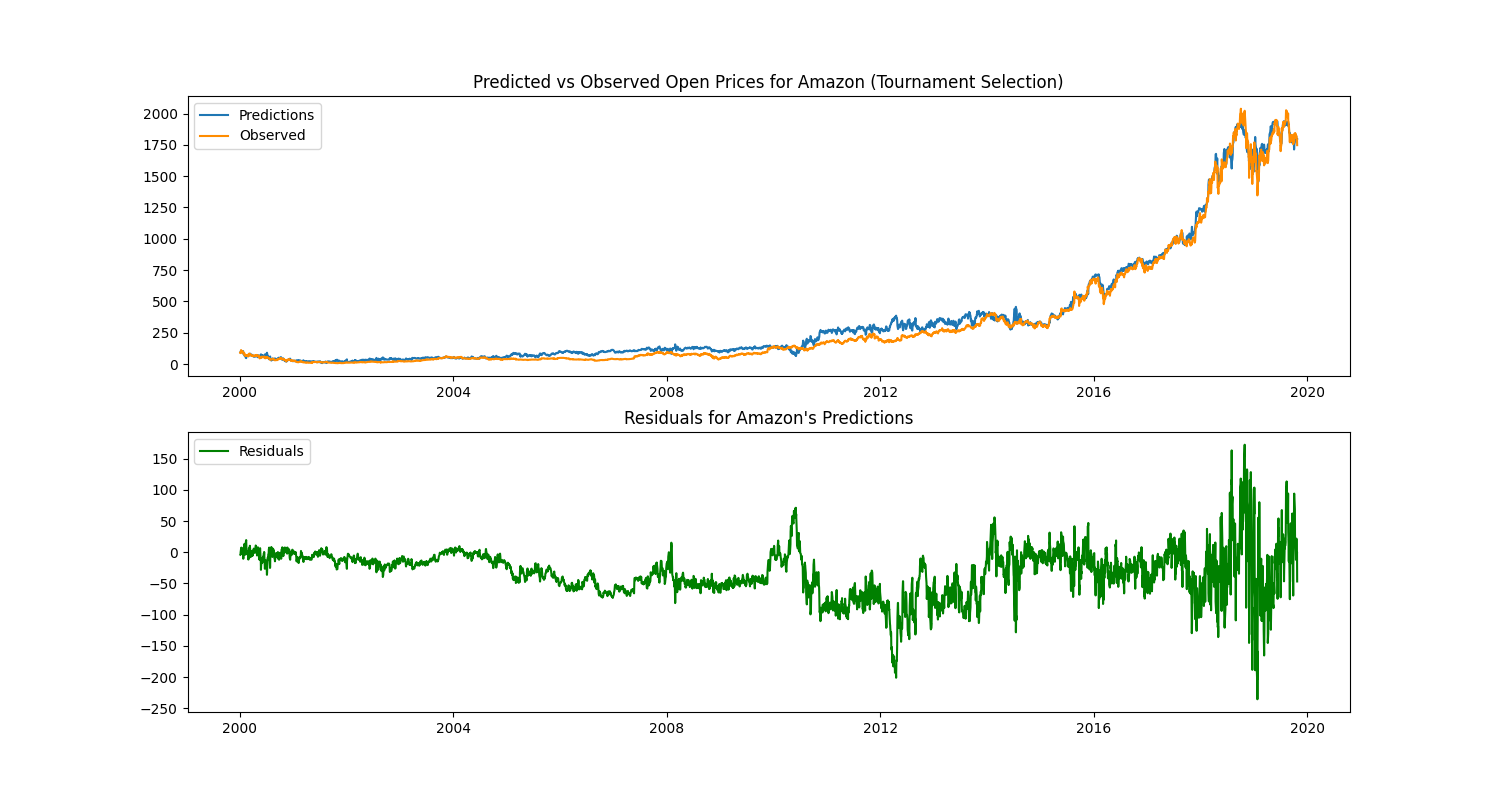
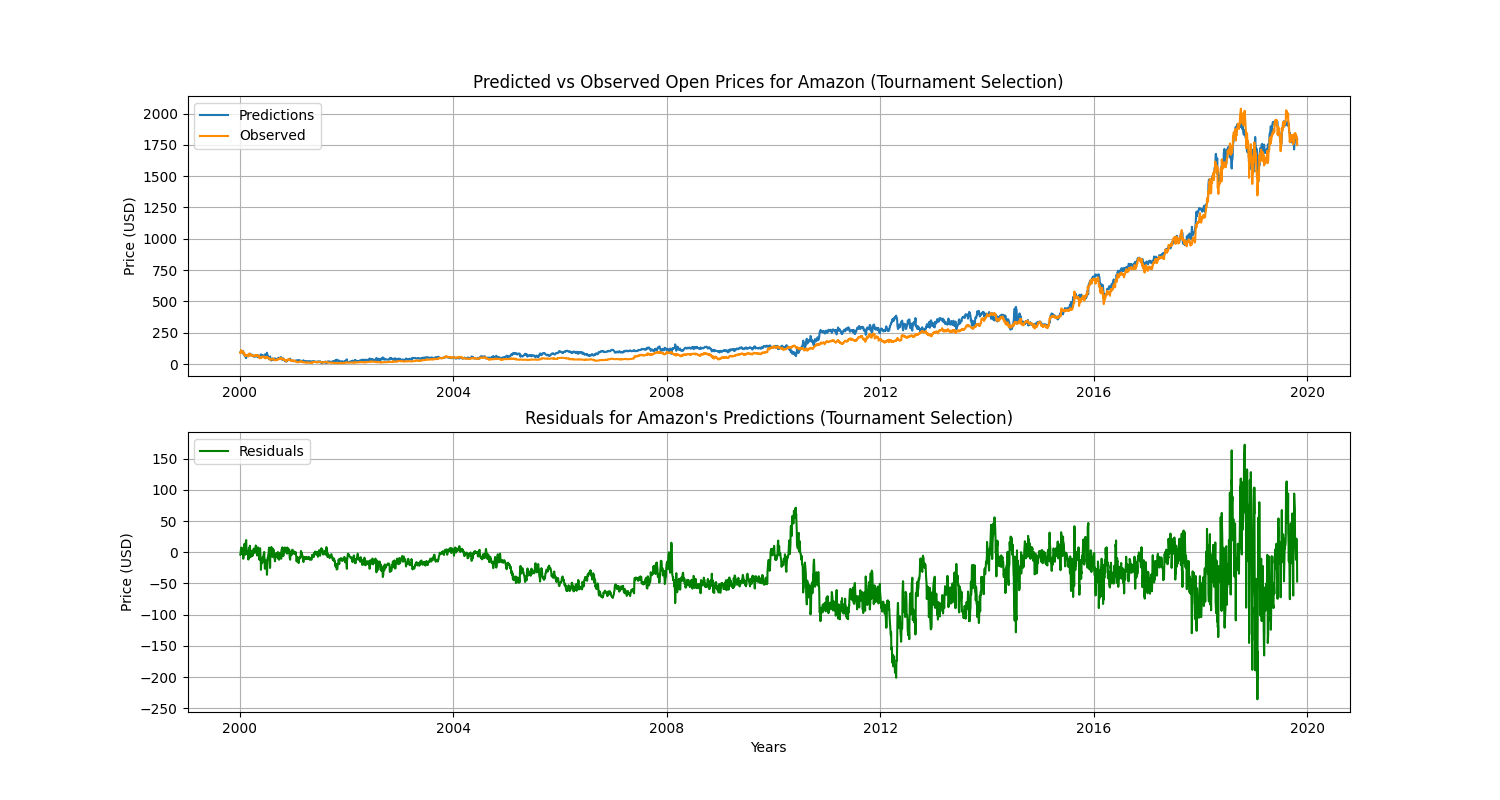
Changes to graphs

diff --git a/tournament_selection.py b/tournament_selection.py
@@ -112,23 +112,33 @@ def createPlots(model, X_train, Y_train):
     axs[0].plot(x, y[0][::], label="Observed", color="darkorange")
     axs[0].legend(loc=2)
     axs[0].title.set_text("Predicted vs Observed Open Prices for Apple (Tournament Selection)")
+    axs[0].set_ylabel("Price (USD)")
+    axs[0].grid(True)
 
     e = residuals(y[0][::], yhat[0][::])
     axs[1].plot(x, e, color="g", label="Residuals")
     axs[1].legend(loc=2)
-    axs[1].title.set_text("Residuals for Apple's Predictions")
-    
+    axs[1].title.set_text("Residuals for Apple's Predictions (Tournament Selection)")
+    axs[1].set_ylabel("Price (USD)")
+    axs[1].set_xlabel("Years")
+    axs[1].grid(True)
+
     # Amazon
     fig, axs = plt.subplots(2, figsize=(15,8))
     axs[0].plot(x, yhat[1][::], label="Predictions")
     axs[0].plot(x, y[1][::], label="Observed", color="darkorange")
     axs[0].legend(loc=2)
     axs[0].title.set_text("Predicted vs Observed Open Prices for Amazon (Tournament Selection)")
+    axs[0].set_ylabel("Price (USD)")
+    axs[0].grid(True)
 
     e = residuals(y[1][::], yhat[1][::])
     axs[1].plot(x, e, color="g", label="Residuals")
     axs[1].legend(loc=2)
-    axs[1].title.set_text("Residuals for Amazon's Predictions")
+    axs[1].title.set_text("Residuals for Amazon's Predictions (Tournament Selection)")
+    axs[1].set_ylabel("Price (USD)")
+    axs[1].set_xlabel("Years")
+    axs[1].grid(True)
 
     # Microsoft
     fig, axs = plt.subplots(2, figsize=(15,8))
@@ -136,11 +146,16 @@ def createPlots(model, X_train, Y_train):
     axs[0].plot(x, y[2][::], label="Observed", color="darkorange")
     axs[0].legend(loc=2)
     axs[0].title.set_text("Predicted vs Observed Open Prices for Microsoft (Tournament Selection)")
+    axs[0].set_ylabel("Price (USD)")
+    axs[0].grid(True)
 
     e = residuals(y[2][::], yhat[2][::])
     axs[1].plot(x, e, color="g", label="Residuals")
     axs[1].legend(loc=2)
-    axs[1].title.set_text("Residuals for Microsoft's Predictions")
+    axs[1].title.set_text("Residuals for Microsoft's Predictions (Tournament Selection)")
+    axs[1].set_ylabel("Price (USD)")
+    axs[1].set_xlabel("Years")
+    axs[1].grid(True)    
     plt.show()
     return
 
@@ -156,23 +171,33 @@ def createValPlots(model, X, Y, offset=15):
     axs[0].plot(x, Y [0][::], label="Observed", color="darkorange")
     axs[0].legend(loc=2)
     axs[0].title.set_text("Predicted vs Observed Open Prices for Apple (Tournament Selection)")
+    axs[0].grid(True)
+    axs[0].set_ylabel("Price (USD)")
 
     e = residuals(Y[0][::], Yhat[0][::])
     axs[1].plot(x, e, color="g", label="Residuals")
     axs[1].legend(loc=2)
-    axs[1].title.set_text("Residuals for Apple's Predictions")
-    
+    axs[1].title.set_text("Residuals for Apple's Predictions (Tournament Selection)")
+    axs[1].set_ylabel("Price (USD)")
+    axs[1].set_xlabel("Days")
+    axs[1].grid(True)
+
     # Amazon
     fig, axs = plt.subplots(2, figsize=(15,8))
     axs[0].plot(x, Yhat[1][::], label="Predictions")
     axs[0].plot(x, Y[1][::], label="Observed", color="darkorange")
     axs[0].legend(loc=2)
     axs[0].title.set_text("Predicted vs Observed Open Prices for Amazon (Tournament Selection)")
+    axs[0].set_ylabel("Price (USD)")
+    axs[0].grid(True)
 
     e = residuals(Y[1][::], Yhat[1][::])
     axs[1].plot(x, e, color="g", label="Residuals")
     axs[1].legend(loc=2)
-    axs[1].title.set_text("Residuals for Amazon's Predictions")
+    axs[1].title.set_text("Residuals for Amazon's Predictions (Tournament Selection)")
+    axs[1].set_ylabel("Price (USD)")
+    axs[1].set_xlabel("Days")
+    axs[1].grid(True)
 
     # Microsoft
     fig, axs = plt.subplots(2, figsize=(15,8))
@@ -180,11 +205,16 @@ def createValPlots(model, X, Y, offset=15):
     axs[0].plot(x, Y[2][::], label="Observed", color="darkorange")
     axs[0].legend(loc=2)
     axs[0].title.set_text("Predicted vs Observed Open Prices for Microsoft (Tournament Selection)")
+    axs[0].set_ylabel("Price (USD)")
+    axs[0].grid(True)
 
     e = residuals(Y[2][::], Yhat[2][::])
     axs[1].plot(x, e, color="g", label="Residuals")
     axs[1].legend(loc=2)
-    axs[1].title.set_text("Residuals for Microsoft's Predictions")
+    axs[1].title.set_text("Residuals for Microsoft's Predictions (Tournament Selection)")
+    axs[1].set_ylabel("Price (USD)")
+    axs[1].set_xlabel("Days")
+    axs[1].grid(True)
     plt.show()
     return
 

diff --git a/baseline.py b/baseline.py
@@ -24,7 +24,7 @@ def predict(arr):
     """
     for i in range(3):
         mu = arr[i]
-        sigma = 0.2 * mu
+        sigma = 0.1 * mu
         arr[i] = random.gauss(mu, sigma)
 
     return arr
@@ -101,36 +101,51 @@ def createPlots():
     axs[0].plot(x, yhat[0], label="Predictions")
     axs[0].plot(x, y[0], label="Observed", color="darkorange")
     axs[0].legend(loc=2)
-    axs[0].title.set_text("Predicted vs Observed Open Prices for Apple")
+    axs[0].title.set_text("Predicted vs Observed Open Prices for Apple (Random Walk)")
+    axs[0].set_ylabel("Price (USD)")
+    axs[0].grid(True)
 
     e = residuals(y[0], yhat[0])
     axs[1].plot(x, e, color="g", label="Residuals")
     axs[1].legend(loc=2)
-    axs[1].title.set_text("Residuals for Apple's Predictions")
+    axs[1].title.set_text("Residuals for Apple's Predictions (Random Walk)")
+    axs[1].set_xlabel("Time")
+    axs[1].set_ylabel("Price (USD)")
+    axs[1].grid(True)
     
     # Amazon
     fig, axs = plt.subplots(2, figsize=(15,8))
     axs[0].plot(x, yhat[1], label="Predictions")
     axs[0].plot(x, y[1], label="Observed", color="darkorange")
     axs[0].legend(loc=2)
-    axs[0].title.set_text("Predicted vs Observed Open Prices for Amazon")
+    axs[0].title.set_text("Predicted vs Observed Open Prices for Amazon (Random Walk)")
+    axs[0].set_ylabel("Price (USD)")
+    axs[0].grid(True)
 
     e = residuals(y[1], yhat[1])
     axs[1].plot(x, e, color="g", label="Residuals")
     axs[1].legend(loc=2)
-    axs[1].title.set_text("Residuals for Amazon's Predictions")
+    axs[1].title.set_text("Residuals for Amazon's Predictions (Random Walk)")
+    axs[1].set_xlabel("Time")
+    axs[1].set_ylabel("Price (USD)")
+    axs[1].grid(True)
 
     # Microsoft
     fig, axs = plt.subplots(2, figsize=(15,8))
     axs[0].plot(x, yhat[2], label="Predictions")
     axs[0].plot(x, y[2], label="Observed", color="darkorange")
     axs[0].legend(loc=2)
-    axs[0].title.set_text("Predicted vs Observed Open Prices for Microsoft")
+    axs[0].title.set_text("Predicted vs Observed Open Prices for Microsoft (Random Walk)")
+    axs[0].set_ylabel("Price (USD)")
+    axs[0].grid(True)
 
     e = residuals(y[2], yhat[2])
     axs[1].plot(x, e, color="g", label="Residuals")
     axs[1].legend(loc=2)
-    axs[1].title.set_text("Residuals for Microsoft's Predictions")
+    axs[1].title.set_text("Residuals for Microsoft's Predictions (Random Walk)")
+    axs[1].set_xlabel("Time")
+    axs[1].set_ylabel("Price (USD)")
+    axs[1].grid(True)
     plt.show()
 
 
